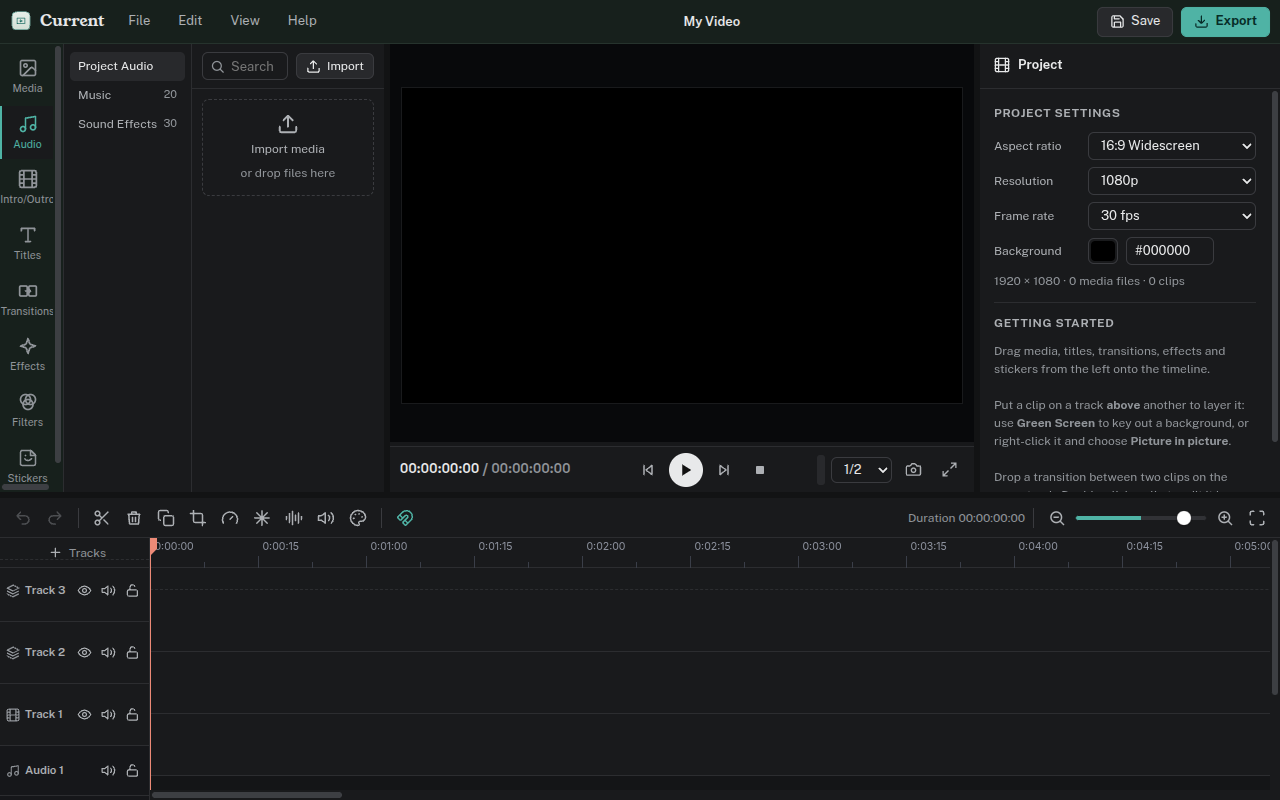
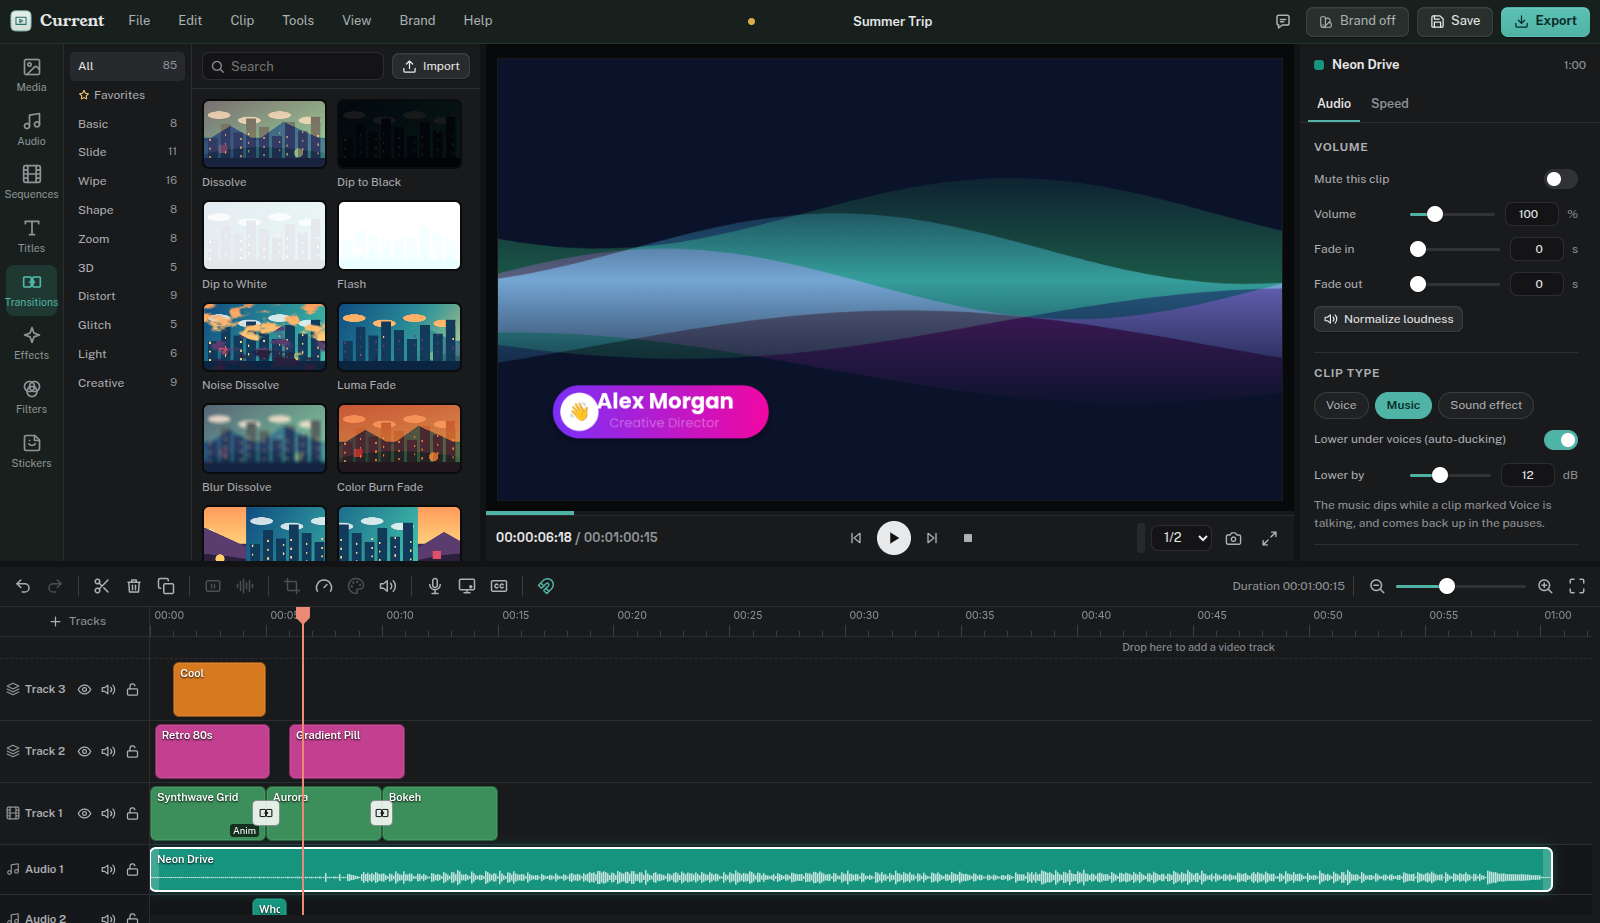
Current 1.7.0: edit with Claude, a first cut from your media, a new music engine
- Version 1.7.0
- What's new in 1.7: the Assistant, First cut, the new music engine and the
  cleaner look (16 rows; the 1.5 chart intros and 1.6 music rows retired)
- Aspect ratios use plain names (Widescreen, Vertical, Square, Portrait,
  Classic, Cinema) instead of platform names; the starter templates are
  Vlog and Vertical Clip
- Release notes, README (install lines, audio, new screenshots)

diff --git a/src/js/app.js b/src/js/app.js
@@ -16,7 +16,7 @@ import { loadBrand } from './brand.js';
 import { brandChip, brandMenu, openBrandKits } from './ui/brand.js';
 import { clipItems, toolsItems, selectedClip, inspect } from './ui/clipmenu.js';
 import { assistantPill } from './ui/assistant.js';
-import { initPanel, panelButton } from './ui/panel.js';
+import { initPanel, panelButton, openPanel } from './ui/panel.js';
 import { ONLINE, TRADEMARK } from './agent/privacy.js';
 import { initConnector } from './agent/connector.js';
 import { PROJECT_TEMPLATES } from './templates/projects.js';
@@ -127,7 +127,7 @@ function buildTopbar() {
     ]),
     menu('Brand', brandMenu),
     menu('Help', () => [
-      { label: 'What’s new in Current 1.6', icon: 'news', run: () => showWhatsNew() },
+      { label: 'What’s new in Current 1.7', icon: 'news', run: () => showWhatsNew() },
       { label: 'Keyboard shortcuts', icon: 'keyboard', kbd: '?', run: showShortcuts },
       { label: 'About Current', icon: 'info', run: showAbout },
     ]),
@@ -235,7 +235,7 @@ async function showStart() {
     const [w, hh] = ASPECTS[k];
     const s = 26 / Math.max(w, hh);
     return h('div.aspect', { class: `aspect${k === aspect ? ' on' : ''}`, 'data-a': k, onclick: () => { aspect = k; asp.querySelectorAll('.aspect').forEach((a) => a.classList.toggle('on', a.dataset.a === k)); } },
-      h('i', { style: { width: w * s + 'px', height: hh * s + 'px' } }), k, h('small', { style: { color: 'var(--fg3)', fontSize: '10px' } }, { '16:9': 'YouTube', '9:16': 'Shorts · Reels', '1:1': 'Square', '4:5': 'Instagram', '4:3': 'Classic', '21:9': 'Cinema' }[k]));
+      h('i', { style: { width: w * s + 'px', height: hh * s + 'px' } }), k, h('small', { style: { color: 'var(--fg3)', fontSize: '10px' } }, { '16:9': 'Widescreen', '9:16': 'Vertical', '1:1': 'Square', '4:5': 'Portrait', '4:3': 'Classic', '21:9': 'Cinema' }[k]));
   }));
   const recent = await window.native.recentList();
   const recentGrid = h('div.recent', recent.length ? recent.map((r) => h('div.recent-card', { onclick: () => openProject(r.path) },
@@ -333,16 +333,18 @@ function showShortcuts() {
     ...rows.flatMap(([k, d]) => [h('span', k.split(' / ').map((x, i) => [i ? ' / ' : '', h('kbd', x)])), h('span', d)])])) });
 }
 
-// What's new in 1.6 and 1.5, then every 1.4 feature: where to find each, and a button that opens it where that makes sense.
+// What's new in 1.7, 1.6 and 1.5, then every 1.4 feature: where to find each, and a button that opens it where that makes sense.
 function showWhatsNew() {
   const c = selectedClip();
   const sound = c && (c.type === 'audio' || c.type === 'video');
   const rows = [
+    ['chat', 'Assistant: edit with Claude', 'New in 1.7: ask Claude to edit this video, in the Assistant panel (the speech bubble at the top right) with your own Claude API key, or from Claude’s own apps through Tools › Assistant. Each request undoes in one step.', () => openPanel()],
+    ['wand', 'A first cut from your media', 'New in 1.7: add your clips to Project Media, then press Make a first cut in the Assistant panel. Claude picks the best moments, puts them in order and adds an intro, outro, music and captions.', () => openPanel()],
+    ['audio', 'A new music engine', 'New in 1.7: all 50 tracks were remade with real-sounding instruments, verses and choruses, and tunes of their own. Audio › Music.', () => setTab('audio', 'Music')],
+    ['aspect', 'A cleaner look', 'New in 1.7: a simpler start screen, softer buttons, rounder menus and dialogs, and thin scrollbars.', null],
     ['star', 'Favorites', 'New in 1.6: hover over anything in Audio, Sequences, Titles, Transitions, Effects, Filters or Stickers and click its star. Each of those tabs keeps a Favorites group.', () => setTab('pack', 'Favorites')],
     ['film', 'News, Gaming and Travel sequences', 'New in 1.6: 40 pieces in each, with intros, mid-rolls and outros under their own headings. The Sequences tab on the left.', () => setTab('pack', 'News')],
-    ['audio', '50 music tracks', 'New in 1.6: 30 new tracks, from house and drum and bass to waltz, bossa and lullabies. Audio › Music.', () => setTab('audio', 'Music')],
     ['midroll', 'Mid-rolls: Education and Professional', 'New in 1.5: 80 pieces for the middle of a video; + puts one in at the playhead. In 1.6 the chart pieces gave way to general ones, and Activity Timer counts down for real: type any time.', () => setTab('pack', 'Education')],
-    ['chart', 'Chart intros and outros', 'New in 1.5: Line Climb, Donut Fill, Big Number, Stacked Columns, Ranking Bars and Milestone Timeline, each with a matching outro. Their numbers are editable text. Sequences › Intros.', () => setTab('pack', 'Intros')],
     ['mic', 'Record a voiceover', 'Tools › Record voiceover, the microphone button above the timeline, or press R. Recording starts at the playhead after a short countdown.', openVoiceover],
     ['screen', 'Record your screen', 'Tools › Record screen, the screen button above the timeline, or Shift+R. Add a round webcam bubble and your microphone.', openScreenRecord],
     ['cc', 'Automatic captions', 'Tools › Generate captions, or the CC button above the timeline. Made on this computer; edit any line in Tools › Edit captions.', openCaptions],
@@ -354,7 +356,7 @@ function showWhatsNew() {
     ['shape', 'Shapes and outline', 'Clip › Shape and outline: show a video or photo as a rounded rectangle or a circle.', c && (c.type === 'video' || c.type === 'image') ? () => inspect('video', 'Shape') : null],
   ];
   const dlg = modal({
-    title: 'What’s new in Current 1.6',
+    title: 'What’s new in Current 1.7',
     body: h('div.news', rows.map(([ic, name, where, run]) => h('div.news-row',
       h('span.ic', icon(ic, 18)),
       h('div', h('b', name), h('div.where', where)),

diff --git a/src/js/ui/inspector.js b/src/js/ui/inspector.js
@@ -101,7 +101,7 @@ function renderProject(n) {
   const aspect = Object.entries(ASPECTS).find(([, [w, hh]]) => w === p.width && hh === p.height)?.[0] || 'custom';
   bodyEl.replaceChildren(
     section('Project settings',
-      select({ label: 'Aspect ratio', value: aspect, options: [...Object.keys(ASPECTS).map((k) => [k, { '16:9': '16:9 Widescreen', '9:16': '9:16 Vertical (Shorts, Reels)', '1:1': '1:1 Square', '4:5': '4:5 Portrait', '4:3': '4:3 Standard', '21:9': '21:9 Cinema' }[k]]), ...(aspect === 'custom' ? [['custom', 'Custom']] : [])], onChange: (v) => edit(() => { [p.width, p.height] = ASPECTS[v]; }) }),
+      select({ label: 'Aspect ratio', value: aspect, options: [...Object.keys(ASPECTS).map((k) => [k, { '16:9': '16:9 Widescreen', '9:16': '9:16 Vertical', '1:1': '1:1 Square', '4:5': '4:5 Portrait', '4:3': '4:3 Standard', '21:9': '21:9 Cinema' }[k]]), ...(aspect === 'custom' ? [['custom', 'Custom']] : [])], onChange: (v) => edit(() => { [p.width, p.height] = ASPECTS[v]; }) }),
       select({ label: 'Resolution', value: String(p.height <= p.width ? p.height : p.width), options: [['720', '720p'], ['1080', '1080p'], ['1440', '1440p'], ['2160', '4K']], onChange: (v) => edit(() => { const s = +v / Math.min(p.width, p.height); p.width = Math.round(p.width * s / 2) * 2; p.height = Math.round(p.height * s / 2) * 2; }) }),
       select({ label: 'Frame rate', value: String(p.fps), options: [['24', '24 fps'], ['25', '25 fps'], ['30', '30 fps'], ['50', '50 fps'], ['60', '60 fps']], onChange: (v) => edit(() => { p.fps = +v; }) }),
       colorRow({ label: 'Background', value: p.background, onStart: checkpoint, onInput: (v) => { p.background = v; changed('drag'); app.player.requestRender(); }, onChange: () => changed() }),

diff --git a/src/js/templates/projects.js b/src/js/templates/projects.js
@@ -6,7 +6,7 @@
 
 export const PROJECT_TEMPLATES = [
   {
-    id: 'vlog', name: 'YouTube Vlog', aspect: '16:9', music: 'm-acoustic', preview: 'intro-vlog',
+    id: 'vlog', name: 'Vlog', aspect: '16:9', music: 'm-acoustic', preview: 'intro-vlog',
     desc: 'Friendly intro, three scenes with captions, and an end screen with subscribe.',
     intro: 'intro-vlog', outro: 'outro-endscreen',
     scenes: [['Your opening shot', 6, 'bg-g-sunset', 'whip-pan', ['lt-pill', ['Your Name', 'Vlog · Day 1']]], ['Main moment', 8, 'bg-g-ocean', 'whip-pan', ['sub-box', ['Add a caption here']]], ['Wrap up', 6, 'bg-g-peach', 'dissolve', null]],
@@ -36,7 +36,7 @@ export const PROJECT_TEMPLATES = [
     scenes: [['Speaker camera', 12, 'bg-r-studio-grey', 'dissolve', ['sub-karaoke', ['Every word lights up as it is spoken']]]],
   },
   {
-    id: 'reel', name: 'Reel / Short', aspect: '9:16', music: 'm-funk', preview: 'intro-comic',
+    id: 'reel', name: 'Vertical Clip', aspect: '9:16', music: 'm-funk', preview: 'intro-comic',
     desc: 'Vertical, fast-paced: bold hook text, quick cuts and a follow prompt.',
     intro: 'intro-comic', outro: 'outro-swipe',
     scenes: [['Hook shot', 3, 'bg-g-cotton-candy', 'punch', ['sub-creator', ['WAIT FOR IT...']]], ['Clip 2', 3, 'bg-g-lavender', 'glitch', null], ['Clip 3', 3, 'bg-g-citrus', 'whip-vertical', ['sub-creator', ['NO WAY!']]], ['Payoff', 3, 'bg-g-lime-punch', 'zoom-out', null]],

diff --git a/tests/navigation.js b/tests/navigation.js
@@ -124,7 +124,7 @@ try {
   await openMenu('Help');
   item('What’s new').click(); await wait(300);
   const rows = document.querySelectorAll('.news-row');
-  check(rows.length === 14 && [...rows].filter((r) => r.querySelector('button')).length >= 7, `What’s new lists ${rows.length} features, with buttons to open them`);
+  check(rows.length === 16 && [...rows].filter((r) => r.querySelector('button')).length >= 7, `What’s new lists ${rows.length} features, with buttons to open them`);
   await shot('nav-3-news');
   document.querySelector('.modal-f .btn').click(); await wait(100);
   await openMenu('Help');

diff --git a/RELEASE-NOTES.md b/RELEASE-NOTES.md
@@ -1,32 +1,34 @@
-# Current 1.6.0
+# Current 1.7.0
 
-Three new groups in the Sequences tab, 30 more music tracks, Favorites in every library tab, and a real countdown timer.
+Ask Claude to edit your video, or to build a first cut from your own clips. Also: a new music engine, a cleaner start screen and a more polished look.
 
-**News, Gaming and Travel sequences**
+**Assistant: edit with Claude**
 
-- **40 pieces in each group:** ten intros, each with a matching outro, and twenty mid-rolls. They are listed under their own headings (Intros, Mid-rolls, Outros), and **+** puts each one in the right place: intros at the start, mid-rolls at the playhead, outros at the end.
-- **News:** Newsroom Globe, Breaking Bulletin, Morning Show, Special Report, Live Desk, Weekly Roundup and more, with mid-rolls such as Breaking Banner (with a ticker), Top Stories, Weather Forecast, On the Scene, Fact Check, Interview, How It Happened, Traffic Update, Sports Results and Statement.
-- **Gaming:** Press Start, Neon Grid, Level Up, Glitch Mode, Versus, Let’s Play, Loading Screen, Starting Soon, Boss Warning and more, with mid-rolls such as Achievement Unlocked, Patch Notes, Tier List, Controls, Loadout, Player Card, Quest Log, Speedrun Splits, Chat Highlights and Respawning.
-- **Travel:** Passport Stamp, Boarding Pass, Postcard, Flight Path, Road Trip, Compass, Map Unfold, Polaroids and more, with mid-rolls such as Destination, Packing List, Day Plan, Local Phrase, Daily Budget, Getting There, Time Difference, Hidden Gem, Photo Spot and Our Rating.
-- **Pictures follow the words:** weather icons, transport icons, clock hands, rating stars, quest ticks and traffic colours all change to match what you type.
-
-**Education and Professional**
-
-- **No more charts that can’t match your numbers.** Ten Professional pieces built on charts are replaced by general ones: FAQ, Do’s and Don’ts, Action Items, Why Choose Us, Work Cycle, Visit Us, Special Offer, Our Promise, Team Shout-out and Short Break.
-- **Quick Poll is replaced by Exit Ticket**, and Big Statistic no longer draws dots.
-- **Activity Timer is a real countdown.** Type any time in its Timer length box (like 1:00, 5:00 or 10 min). The clip becomes that long and counts down in real time, then shows “Time’s up!” with a chime. Anything after it moves along.
-- Projects that already use a replaced piece still show it.
-
-**Favorites**
-
-- Hover over anything in Audio, Sequences, Titles, Transitions, Effects, Filters or Stickers and click its star. Each of those tabs keeps a **Favorites** group, and your stars are kept between sessions.
+- **Ask in plain words,** like "cut the long pauses and add the Boarding Pass intro" or "make it 30 seconds with upbeat music". Claude makes the changes in the open project while you watch, and Undo takes each request back in one step.
+- **A first cut from your media.** Add your videos, photos and sound to Project Media and press **Make a first cut…**. Say what the video is; length, mood and what to include are optional. Claude looks through every file and builds the video for you to tweak:
+  - it picks the best moments, puts them in order and trims them;
+  - it adds an intro and outro, titles, music, transitions and captions.
+- **Two ways to use it:**
+  - **The Assistant panel**, the speech bubble at the top right, with your own Claude API key. The key is kept encrypted with your system's keyring, and requests are billed to your Claude developer account. Each step shows as it happens, then what changed and roughly what it cost.
+  - **Claude's own apps, with your Claude plan.** Switch on Tools › Assistant › **Let Claude edit in Current**, then use Claude's desktop app (install the connector file it saves) or Claude Code (copy the one-line command). There is a ready-made **First cut** prompt.
+- **What Claude sees:** what you ask, the project outline (clip and file names, times, texts and captions), transcripts and the still frames it asks for. Your video and sound files stay on your computer. Shots, dark, blurry and shaky parts, quiet stretches and transcripts are all worked out here. Claude can't export, save or delete files. The README's Privacy section has the details.
 
 **Music**
 
-- **50 music tracks**, up from 20. The new ones include house, trap, reggae, waltz, a brass march, a lullaby, chiptune, drum and bass, bossa, blues, country, orchestral, mystery, soul, focus and meditation beds. The 30 sound effects are unchanged.
+- **A new music engine.** All 50 tracks were remade with real-sounding instruments (guitars, pianos, strings, brass, bells and more), proper drum kits, verses and choruses, and tunes of their own. Track names and lengths are unchanged, so existing projects keep working.
+
+**Look**
+
+- **A cleaner start screen.** The aspect ratio picker sits in the middle, with New Project and Open Project at the bottom. What's new moved to the Help menu.
+- **A more polished look:** softer buttons, rounder menus and dialogs, a grouped aspect ratio picker, rounded library tabs and thin scrollbars.
+
+**Fixes**
+
+- The timeline zoom slider's blue part now follows its handle.
+- The Export window no longer shows the word "null" when a project has no captions.
 
 Install:
 
 ```bash
-sudo apt install ./current_1.6.0_amd64.deb
+sudo apt install ./current_1.7.0_amd64.deb
 ```

diff --git a/README.md b/README.md
@@ -10,7 +10,7 @@ A video editor built around ready-made templates. Drag animated titles, transiti
 
 | Library | Count | Examples |
 |---|---|---|
-| Starter templates | 12 | YouTube vlog, travel montage, travel highlights, product promo, tutorial, podcast clip (1:1), reel/short (9:16), birthday, family memories, gaming highlights, wedding, year in review |
+| Starter templates | 12 | vlog, travel montage, travel highlights, product promo, tutorial, podcast clip (1:1), vertical clip (9:16), birthday, family memories, gaming highlights, wedding, year in review |
 | Sequences | 280 | Ready-made pieces built from separate clips, so every text, number and piece can be edited and moved. **Intros** and **Outros** (40 each), including fifteen professional pairs where each intro has a matching outro: Block Reveal, Lesson Opener, Side Panel, Line Frame, Bold Bands, Chart Rise, Chapter Number, Monogram, Shutter, and six charts (Line Climb, Donut Fill, Big Number, Stacked Columns, Ranking Bars, Milestone Timeline). **Education** mid-rolls (40): Lesson Agenda and Recap, Key Term, Quick Quiz, True or False, Step by Step, Formula, Worked Example, Activity Timer (a real countdown for any length), Exit Ticket, Fill in the Blank, Myth vs Fact and more. **Professional** mid-rolls (40): Big Number, Before / After, Roadmap, Team Member, Customer Quote, Pricing Plans, FAQ, Do’s and Don’ts, Action Items, Why Choose Us, Visit Us, Special Offer, SWOT, Event Date and more, none with charts that would need real company numbers. **News**, **Gaming** and **Travel** (40 each): ten intros with matching outros and twenty mid-rolls in each, from Breaking Bulletin, Weather Forecast and Fact Check to Press Start, Patch Notes and Tier List, and Boarding Pass, Packing List and Local Phrase |
 | Titles | 105 | Openers, professional (with a matching lower third for each professional style), lower thirds, subtitles (incl. word highlight), social, callouts, quotes, countdowns, end credits |
 | Transitions | 85 | Dissolves, dips, wipes, slides, whip pans, zooms, spins, 3D cube/flip/page turn, glitch, film burn, light leak, shapes |
@@ -18,7 +18,7 @@ A video editor built around ready-made templates. Drag animated titles, transiti
 | Filters | 50 | Cinematic, film stocks, vintage, black & white, moods, food & travel |
 | Stickers | 100 | Animated emoji, 20 annotations (circles, highlighter, tooltips, star rating, spotlight…), 15 arrows (straight, double, block, elbow, U-turn, rotate, curved, neon, rainbow, sparkle trail…), confetti, frames |
 | Backgrounds | 78 | Solid colours (incl. green/blue screen), gradients, radial glows, animated, patterns, scenes and textures |
-| Audio | 80 | 50 music tracks and 30 sound effects, generated on first use |
+| Audio | 80 | 50 music tracks, each with its own instruments, song sections and tune, and 30 sound effects, all made on your computer the first time you use them |
 | Fonts | 22 | Bundled display and script fonts for titles |
 
 Every card animates when you hover over it, and the **+** button adds it at the playhead. Hover a music, sound or video card and press play to hear it first. Click the star on any card in Audio, Sequences, Titles, Transitions, Effects, Filters or Stickers to keep it in that tab’s **Favorites** group.
@@ -98,10 +98,10 @@ Current has only been tested on Ubuntu 26.04.
 
 ### With the deb package (recommended)
 
-Download `current_1.6.0_amd64.deb` from the [latest release](https://github.com/webhookstudios/current/releases/latest), then install it:
+Download `current_1.7.0_amd64.deb` from the [latest release](https://github.com/webhookstudios/current/releases/latest), then install it:
 
 ```bash
-sudo apt install ./current_1.6.0_amd64.deb
+sudo apt install ./current_1.7.0_amd64.deb
 ```
 
 Open **Current** from the apps menu. To remove it:
@@ -126,7 +126,7 @@ Or run it straight from the checkout with `npm start`.
 
 | To do this | Do this |
 |---|---|
-| Start a project | Pick an aspect ratio (16:9, 9:16 for Shorts and Reels, 1:1, 4:5, 4:3, 21:9) and click **New Project** |
+| Start a project | Pick an aspect ratio (16:9 widescreen, 9:16 vertical, 1:1 square, 4:5 portrait, 4:3 classic or 21:9 cinema) and click **New Project** |
 | Add media | Click **Import**, or drop files on the library or straight onto the timeline |
 | Add a template | Drag it to a track, or hover and click **+** |
 | Add a transition | Drop it on the cut between two clips (or on a clip's start or end to fade from or to black) |

diff --git a/docs/claude-plan.md b/docs/claude-plan.md
@@ -14,7 +14,7 @@ Written 2026-11-17, against Current 1.6.0 plus commit `dd20615`.
 ## What people get
 
 **A first cut from their own media.**
-- The person adds their footage, photos and audio to the project, then says what they're making ("a 60-second travel recap for Shorts, upbeat").
+- The person adds their footage, photos and audio to the project, then says what they're making ("a 60-second vertical travel recap, upbeat").
 - Claude looks through every file and builds the video: it picks the best moments, puts them in order, trims them, and adds an intro and outro, titles, music, transitions and captions.
 - The person gets at least a solid starting point, and often a finished video that only needs tweaks (part 4).
 
